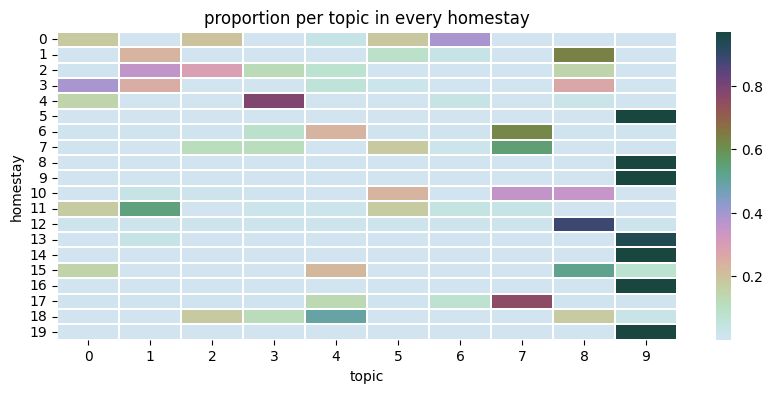
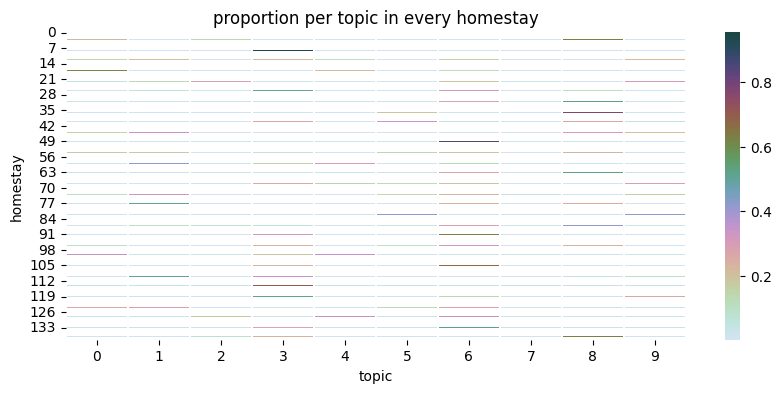
2022.04.04(1)

diff --git a/def_fun.py b/def_fun.py
@@ -1,4 +1,5 @@
 # -*- coding:utf-8-*-
+import numpy as np
 from transformers import BertTokenizer, BertModel, pipeline, BertConfig, BertForSequenceClassification
 from transformers import AdamW
 import torch
@@ -7,6 +8,8 @@ from transformers import logging
 import pandas as pd
 import matplotlib.pyplot as plt
 import seaborn as sns
+import jieba_fast as jieba
+from wordcloud import WordCloud
 
 
 def kfold_stats_feature(train, feats, y, k, seed):
@@ -81,3 +84,70 @@ def plot_history_mae_mse(history):
     plt.legend()
     plt.savefig('picture/mae_mse.png')
     plt.show()
+
+
+def term_f(n, text):
+    with open('data/stopwords.txt', 'r', encoding="utf-8") as f:
+        lines = f.readlines()
+        f.close()
+    stopwords = []
+    for l in lines:
+        stopwords.append(l.strip())
+
+    list_words = jieba.lcut(text)
+    list_words1 = []
+    for i in list_words:
+        if i != " " and i not in stopwords:
+            list_words1.append(i)
+
+    # print(list_words1)
+    dict1 = {}
+    for ii in list_words1:
+        dict1[ii] = list_words1.count(ii)
+    for key in list(dict1):  # 注意字典在遍历时候不可以修改里面的内容！！！遍历修改需要转换成列表！！
+        if len(key) == 1:
+            del dict1[key]
+    s = list(set(list(dict1.values())))
+    s.sort()
+    s.reverse()
+    va = s[0:]
+    ln = []
+    for ii in va:
+        for i in list(dict1.items()):
+            if ii == i[1]:
+                ln.append(i)
+
+    print("本文出现词语频数如下：")
+    for n in ln[:n]:
+        print(("{:<5} {:>10}次".format(n[0], n[1])))
+
+
+def tan(address):
+    words = jieba.lcut(address)
+    for i in words:
+        if len(i) == 1:
+            words.remove(i)  # 字符串长度为1的不予以输出
+    stopwords = open('data/stopwords.txt', encoding='utf-8').read().split()
+    text_list = [item for item in words if item != ' ' and item not in stopwords]
+    new = " ".join(text_list)
+    return new
+
+
+def paint(n, text):
+    # mask = np.array(Image.open("heart.jpg"))
+
+    text = tan(text)
+    wordcloud = WordCloud(background_color="white", width=750, height=630, max_words=n,
+                          # mask=mask,
+                          # 做词云处理的时候mask后边接的是处理成数组之后的图片
+                          contour_width=3, contour_color="green",
+                          font_path="data/微软雅黑.ttf"
+                          ).generate(
+        text)  # 必须是字符串 中间用空白间隔的字符串
+    # wordcloud.to_file(r"C:/Users/123/Desktop/Python学习笔记/作业文档/词云结果图/词云结果图.png")  # 做好的图片放到一个新的文件之中
+    plt.imshow(wordcloud)  # 将图片文件显示在坐标图之上
+    plt.axis("off")  # 无坐标轴
+    plt.show()  # 显示图片
+
+
+

diff --git a/Describe_LDA.py b/Describe_LDA.py
@@ -70,7 +70,7 @@ def main(num_of_homestay, num_of_topic, num_of_topic_words):
     stopwords = []
     for l in lines:
         stopwords.append(l.strip())
-    original = data_good['描述'][:num_of_homestay]
+    original = data_good['房客评价'].dropna(axis=0).sample(frac=num_of_homestay)
     corpus = [preprocess(i, stopwords) for i in original]
     # corpus = [' '.join(corpus)]
     # print(corpus)
@@ -82,7 +82,7 @@ def main(num_of_homestay, num_of_topic, num_of_topic_words):
 
 
 if __name__ == '__main__':
-    num_of_homestay = 20  # 前N个民宿，不能用全部，太多了，我试了最多50个最好
+    num_of_homestay = 0.2  # 前N个民宿，不能用全部，太多了，我试了最多50个最好
     N_TOPICS = 10  # 提取N个主题
     N_TOP_WORDS = 10  # 每个主题提取N个词
     main(num_of_homestay, N_TOPICS, N_TOP_WORDS)
